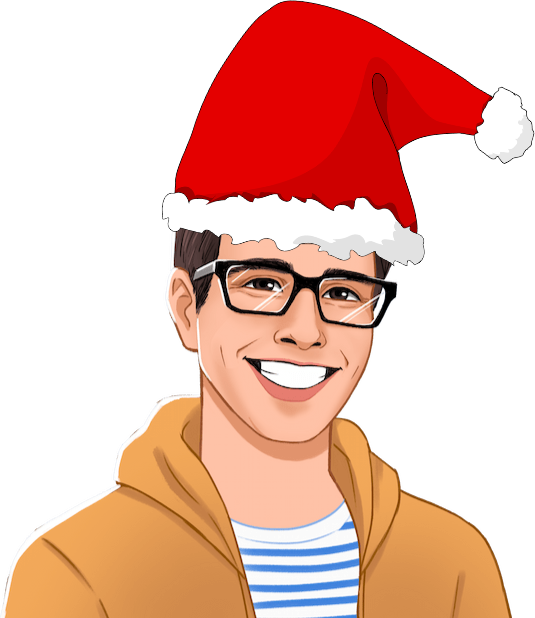
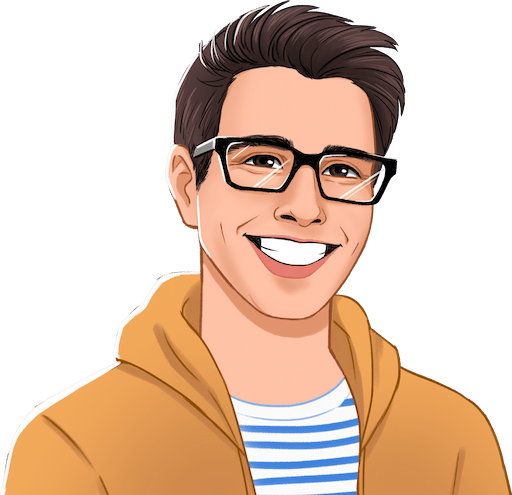
styles: revert christmas

diff --git a/assets/css/styles.css b/assets/css/styles.css
@@ -7,8 +7,8 @@
   --f5: 0.833rem;
 
   /* Colors */
-  --c-h: 96;
-  --c-s: 42%;
+  --c-h: 220;
+  --c-s: 50%;
   --c-l: 42%;
   --c: hsl(var(--c-h), var(--c-s), var(--c-l));
   --c-text: #f4f4f4;
@@ -777,7 +777,7 @@ main pre {
     padding: 0 var(--ls);
   }
 
-  #navbar, .lightrope {
+  #navbar {
     width: 100%;
     margin-left: 0;
   }
@@ -845,145 +845,5 @@ main pre {
 
   a:hover {
     background: none;
-  }
-}
-
-/*! Adapted from https://codepen.io/tobyj/pen/QjvEex */
-.lightrope {
-  text-align: center;
-  white-space: nowrap;
-  overflow: hidden;
-  padding: 0;
-  pointer-events: none;
-  margin-top: calc(-1 * var(--hls));
-}
-
-.lightrope li {
-  position: relative;
-  animation-fill-mode: both;
-  animation-iteration-count: infinite;
-  list-style: none;
-  margin: 0;
-  padding: 0;
-  display: block;
-  width: 12px;
-  height: 28px;
-  border-radius: 50%;
-  margin: 4px 20px 20px 20px;
-  display: inline-block;
-  background: #00f7a5;
-  box-shadow: 0px 4px 20px 3px #00f7a5;
-  animation-name: flash-blue;
-  animation-duration: 2s;
-}
-
-.lightrope + * {
-  margin-top: -1rem;
-}
-
-.lightrope li:nth-child(2n+1) {
-  background: #0A53DE;
-  box-shadow: 0px 4px 20px 3px #0A53DE;
-  animation-name: flash-red;
-  animation-duration: 0.4s;
-}
-
-.lightrope li:nth-child(4n+2) {
-  background: #FBF21A;
-  box-shadow: 0px 4px 20px 3px #FBF21A;
-  animation-name: flash-yellow;
-  animation-duration: 1.1s;
-}
-
-.lightrope li:nth-child(6n+2) {
-  background: #24D024;
-  box-shadow: 0px 4px 20px 3px #24D024;
-  animation-name: flash-green;
-  animation-duration: 0.8s;
-}
-
-.lightrope li:nth-child(odd) {
-  animation-duration: 1.8s;
-}
-
-.lightrope li:nth-child(3n+1) {
-  animation-duration: 1.4s;
-}
-
-.lightrope li:before {
-  content: "";
-  position: absolute;
-  background: #222;
-  width: 10px;
-  height: 9.3333333333px;
-  border-radius: 3px;
-  top: -4px;
-  left: 1px;
-}
-
-.lightrope li:after {
-  content: "";
-  top: -14px;
-  left: 9px;
-  position: absolute;
-  width: 52px;
-  height: 18.6666666667px;
-  border-bottom: solid #222 2px;
-  border-radius: 50%;
-}
-
-.lightrope li:last-child:after {
-  content: none;
-}
-
-@keyframes flash-yellow {
-  0%,
-  100% {
-    background: #FBF21A;
-    box-shadow: 0px 4px 20px 3px #FBF21A;
-  }
-
-  50% {
-    background: rgba(251, 242, 26, 0.4);
-    box-shadow: 0px 4px 20px 3px rgba(251, 242, 26, 0.2);
-  }
-}
-
-@keyframes flash-blue {
-  0%,
-  100% {
-    background: #0A53DE;
-    box-shadow: 0px 4px 20px 3px #0A53DE;
-  }
-
-  50% {
-    background: rgba(10, 83, 222, 0.4);
-    box-shadow: 0px 4px 20px 3px rgba(10, 83, 222, 0.2);
-  }
-}
-
-@keyframes flash-green {
-  0%,
-  100% {
-    background: rgb(36, 208, 36);
-    box-shadow: 0px 4px 20px 3px #24D024;
-  }
-
-  50% {
-    background: rgba(36, 208, 36, 0.4);
-    box-shadow: 0px 4px 20px 3px rgba(36, 208, 36, 0.2);
-  }
-}
-
-@keyframes flash-red {
-  0%,
-  100% {
-    background: rgb(227, 37, 23);
-    box-shadow: 0px 4px 20px 3px #e32517;
-  }
-
-  50% {
-    background: rgba(227, 37, 23, 0.4);
-    box-shadow: 0px 4px 20px 3px rgba(227, 37, 23, 0.2);
   }
 }

diff --git a/layouts/partials/base/header.html b/layouts/partials/base/header.html
@@ -37,4 +37,3 @@
     <a href='{{ .Page.RelPermalink }}' class='nl'{{ if $.IsMenuCurrent .Menu . }} aria-current='page'{{ end }}>{{ .Name }}</a>
   {{ end }}
 </nav>
-<ul class="fw lightrope"><li></li><li></li><li></li><li></li><li></li><li></li><li></li><li></li><li></li><li></li><li></li><li></li><li></li><li></li><li></li><li></li></ul>
